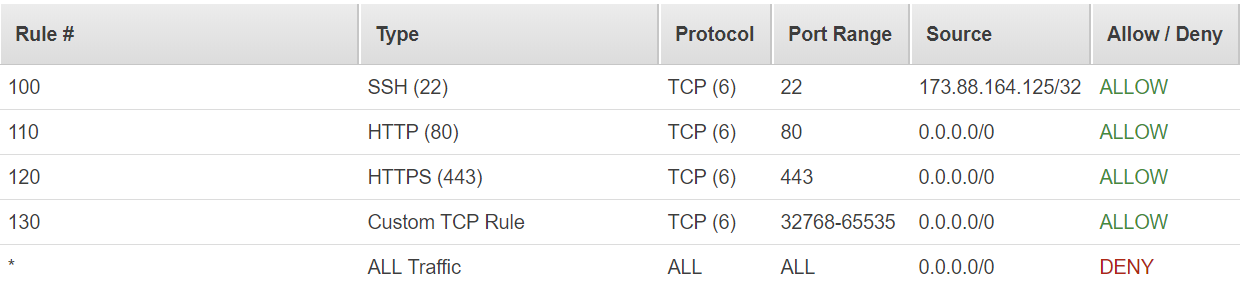
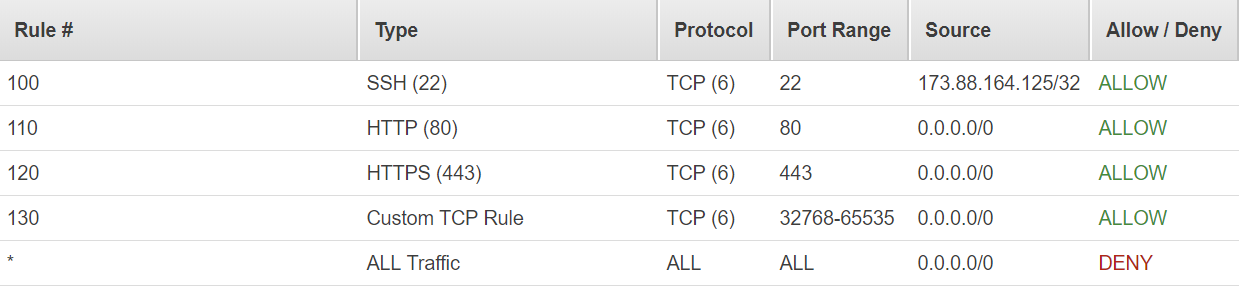
update nacl images to allow ephemeral ports and tidy up ec2 post

Changed region(s): [[0.0, 0.0, 1.0, 0.9965], [0.0, 0.0623, 0.0613, 0.1557], [0.2758, 0.0623, 0.3371, 0.1557]]

diff --git a/content/post/AWS_EC2.md b/content/post/AWS_EC2.md
@@ -10,16 +10,16 @@ In this post we're going to walk through setting an AWS EC2 (elastic compute clo
 
 Up until now we've been going over what some may consider boring.  Permissions and Networking are not necessarily at the top of everyone's list of things they have queued up to learn.  Well I have good news, we're going to have a pair of web servers running in EC2 by the time you finish reading this post.  And all of that Permission and Networking knowledge is really going to pay off.
 
-A quick recap of what we did in the VPC post is in order.  We created a new VPC, created two public subnets, created/attached an Internet Gateway to our VPC, created a new Route Table and added a route for all non-local traffic to pass through the IGW remembering of course to associate it to our public Subnets, added a new Network Access Control List with two ingress/egress rules - SSH from my IP and HTTP traffic over port 80 before associating it with our public Subnets,  then we created a Security Group and added the same inbound rules omitting the outbound since SGs are stateful.<br>
+A quick recap of what we did in the VPC post is in order.  We created a new VPC, created two public subnets, created/attached an Internet Gateway to our VPC, created a new Route Table and added a route for all non-local traffic to pass through the IGW remembering of course to associate it to our public Subnets, added a new Network Access Control List with the requisite ingress/egress rules - SSH from my IP and HTTP/S traffic over ports 80 & 443 as well as the ephemeral ports 32768-65535 before associating it with our public Subnets,  then we created a Security Group and added the same inbound rules omitting the outbound since SGs are stateful.<br>
 We certainly were busy.
 
-Picking up where we left off we're going to be creating 2 linux EC2 instances to act as web servers.  I'll walk through the process on the web server we deploy to our `public-1` Subnet and then you can rinse and repeat for the web server in the `public-2` subnet.
+Picking up where we left off we're going to be creating 2 Amazon linux EC2 instances to act as web servers.  I'll walk through the process on the web server we deploy to our `public-1` Subnet and then you can rinse and repeat for the web server in the `public-2` subnet.
 
 ## What is an EC2 instance??
 AWS EC2 is just another one of the services that AWS provides.  They are virtual servers, that can be scaled up (add more power) or scaled out (add more capacity) on demand and are able to run workloads on Linux or Windows Operating Systems.<br>
-The starting point for an EC2 instance is going to be the AMI or Amazon Machine Image.  An AMI includes some of the OS level settings, root drives, additional drives attached to an instance, installed software/packages, as well as the Operating System itself.  You can use an AMI provided by AWS, an AWS partner, or one of your own.
+The starting point for an EC2 instance is going to be the AMI or Amazon Machine Image.  An AMI includes some of the OS level settings, root drives, additional drives attached to an instance, installed software/packages, as well as the Operating System itself.  You can use an AMI provided by AWS, any number of companies who provide their own AMIs in the Community Marketplace, or of course, one of your own.
 
-Next we have the Instance Type.  AWS is a bit like Baskin Robbins in that they have so many flavors to choose from. Different Instance Types are suited for different workloads, sometimes you'll need to do a little testing to see what Instance Type will work best for you.<br>
+Next we have the Instance Type.  AWS is a bit Baskin Robbins-ish in that they have so many flavors to choose from. Different Instance Types are suited for different workloads, sometimes you'll need to do a little testing to see what Instance Type will work best for you.<br>
 They can be broken down into these 5 broad categories:
 
 * General Purpose
@@ -28,7 +28,7 @@ They can be broken down into these 5 broad categories:
 * Accelerated Computing
 * Storage Optimized
 
-Some have more CPU power, some more memory, etc etc.  We'll be sticking with the AWS Free Tier in this post - which means we'll be using a T2 type.  Each Instance Type can be provisioned with different specs allowing you to keep the same type but scale up to get more power.
+Some have more CPU power, some more memory, etc etc.  We'll be sticking with the AWS Free Tier in this post - which means we'll be using a `t2.micro` instance.  Each Instance Type can be provisioned with different specs allowing you to keep the same type but scale up to get more power.
 
 Network interface card is another option we have.  While a NIC is required we do have some choices to make here.<br>
 Do we want only a private IP?  Is a dynamic public IP sufficient for our needs or do we need a static IP?<br>
@@ -72,7 +72,7 @@ If you went through my IAM post, you'll notice the IAM role option here. As a qu
 
 There are a few other settings here, which we'll accept the defaults for, but one in particular that's worth talking about is the Tenancy option.  This goes back to the Shared/Dedicated option we talked about in the VPC post.  Dedicated means you'll be paying a lot more but you'll sleep better at night knowing that your competitor's application is definitely not running on the same physical server - we'll stick with Shared.
 
-Below the basic settings, we'll see the Network Interfaces section.  Here we can add additional NICs or choose a primary IP for use that falls within the CIRD range for our Subnet.  AWS provides DHCP for us, so unless we have a reason to assign a specific IP we'll let AWS DHCP do it's thing.
+Below the basic settings, we'll see the Network Interfaces section.  Here we can add additional NICs or choose a primary IP for use that falls within the CIDR range for our Subnet.  AWS provides DHCP for us, so unless we have a reason to assign a specific IP we'll let AWS DHCP do it's thing.
 
 And bringing up the end of our instance details page is an Advanced Details setting.  This is where we can inject our own custom code which will be run during the instance provisioning process.
 
@@ -106,6 +106,12 @@ Then we can *actually* launch our instance.  We're presented with a confirmation
 
 Before we go about connecting to our instance, let's see if the web server is actually serving up the default nginx page.  Snag the IPv4 Public IP and paste it into your browser.  If you see the default nginx page then we are good to go.
 
-Voila, we've just stood up our first web server.  Now you just need to repeat this process for `web-2`.
+Voila, we've just stood up our first web server.  
+
+Now you just need to repeat this process for `web-2`.
+
+I know, this is not very useful having two EC2 instance that serve up a default nginx page when your route directly to their public IPs, but you need to walk before you can run so bear with me.
+
+Also, worth noting, up until now we have been creating resources that don't incur any cost.  VPCs, Subnets, SGs, and NACLs are free - but instances can cost money to run.  Best to stop/terminate your instances when you're not actively working with them.
 
 :thumbsup:
